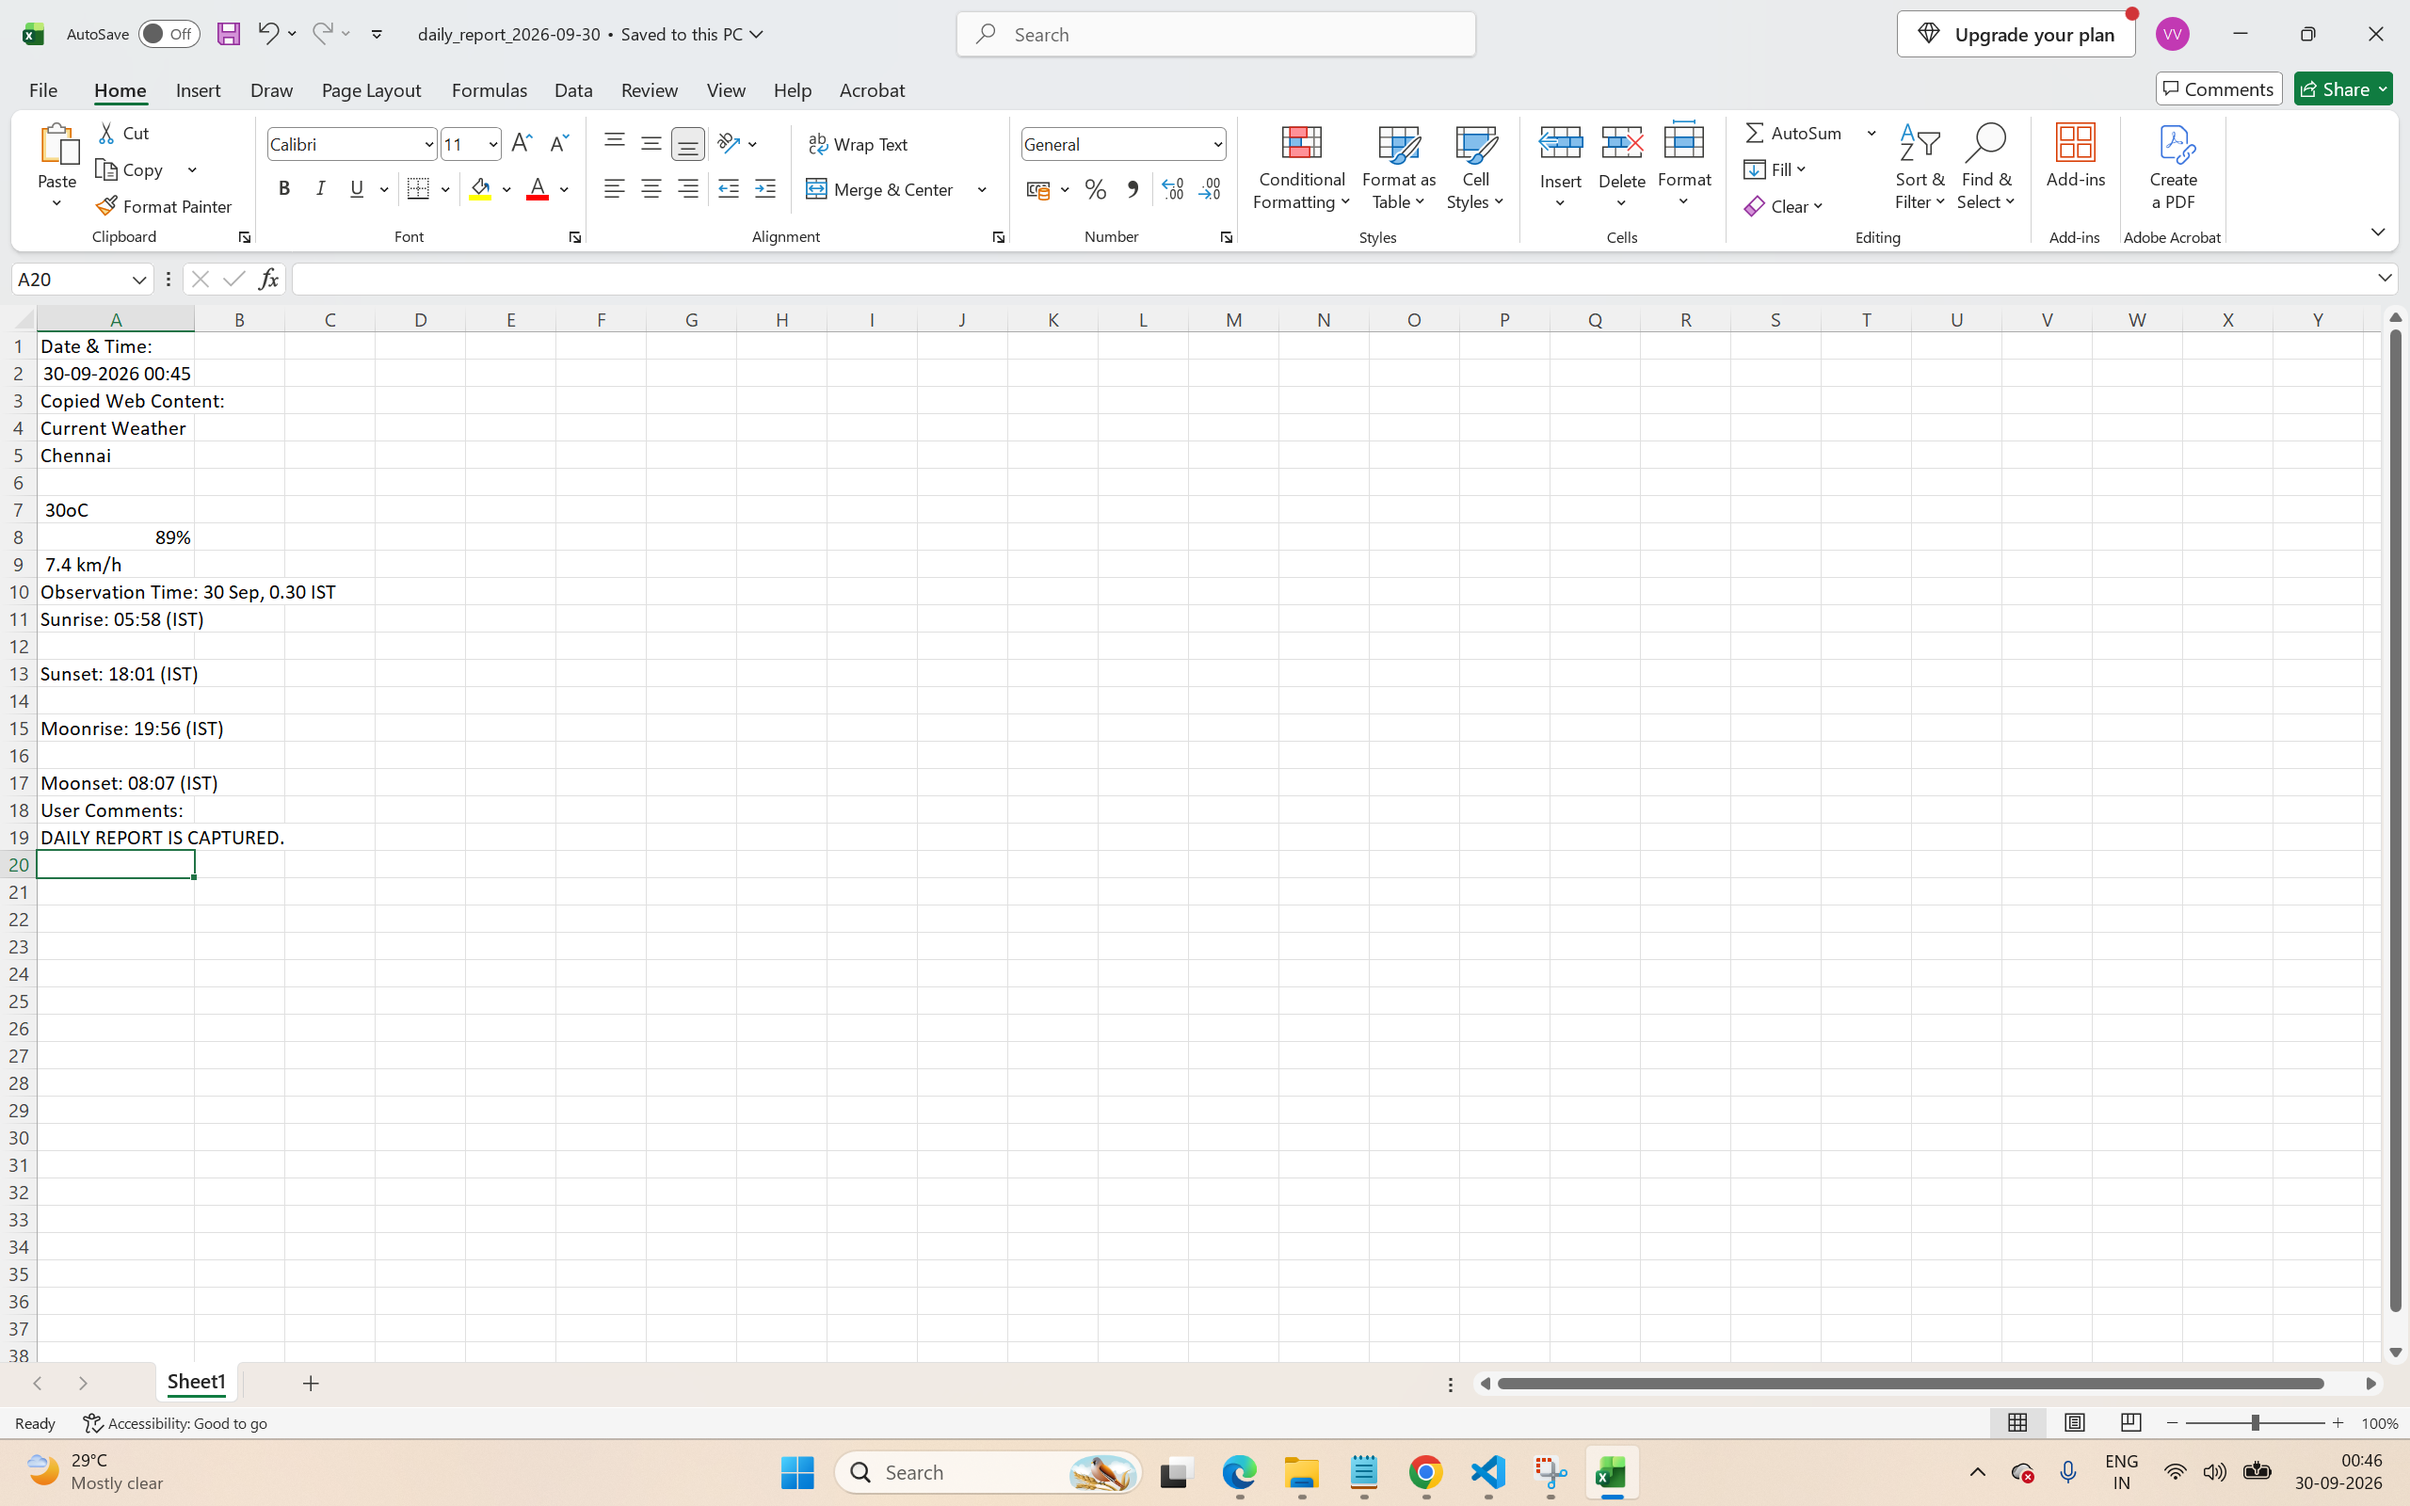
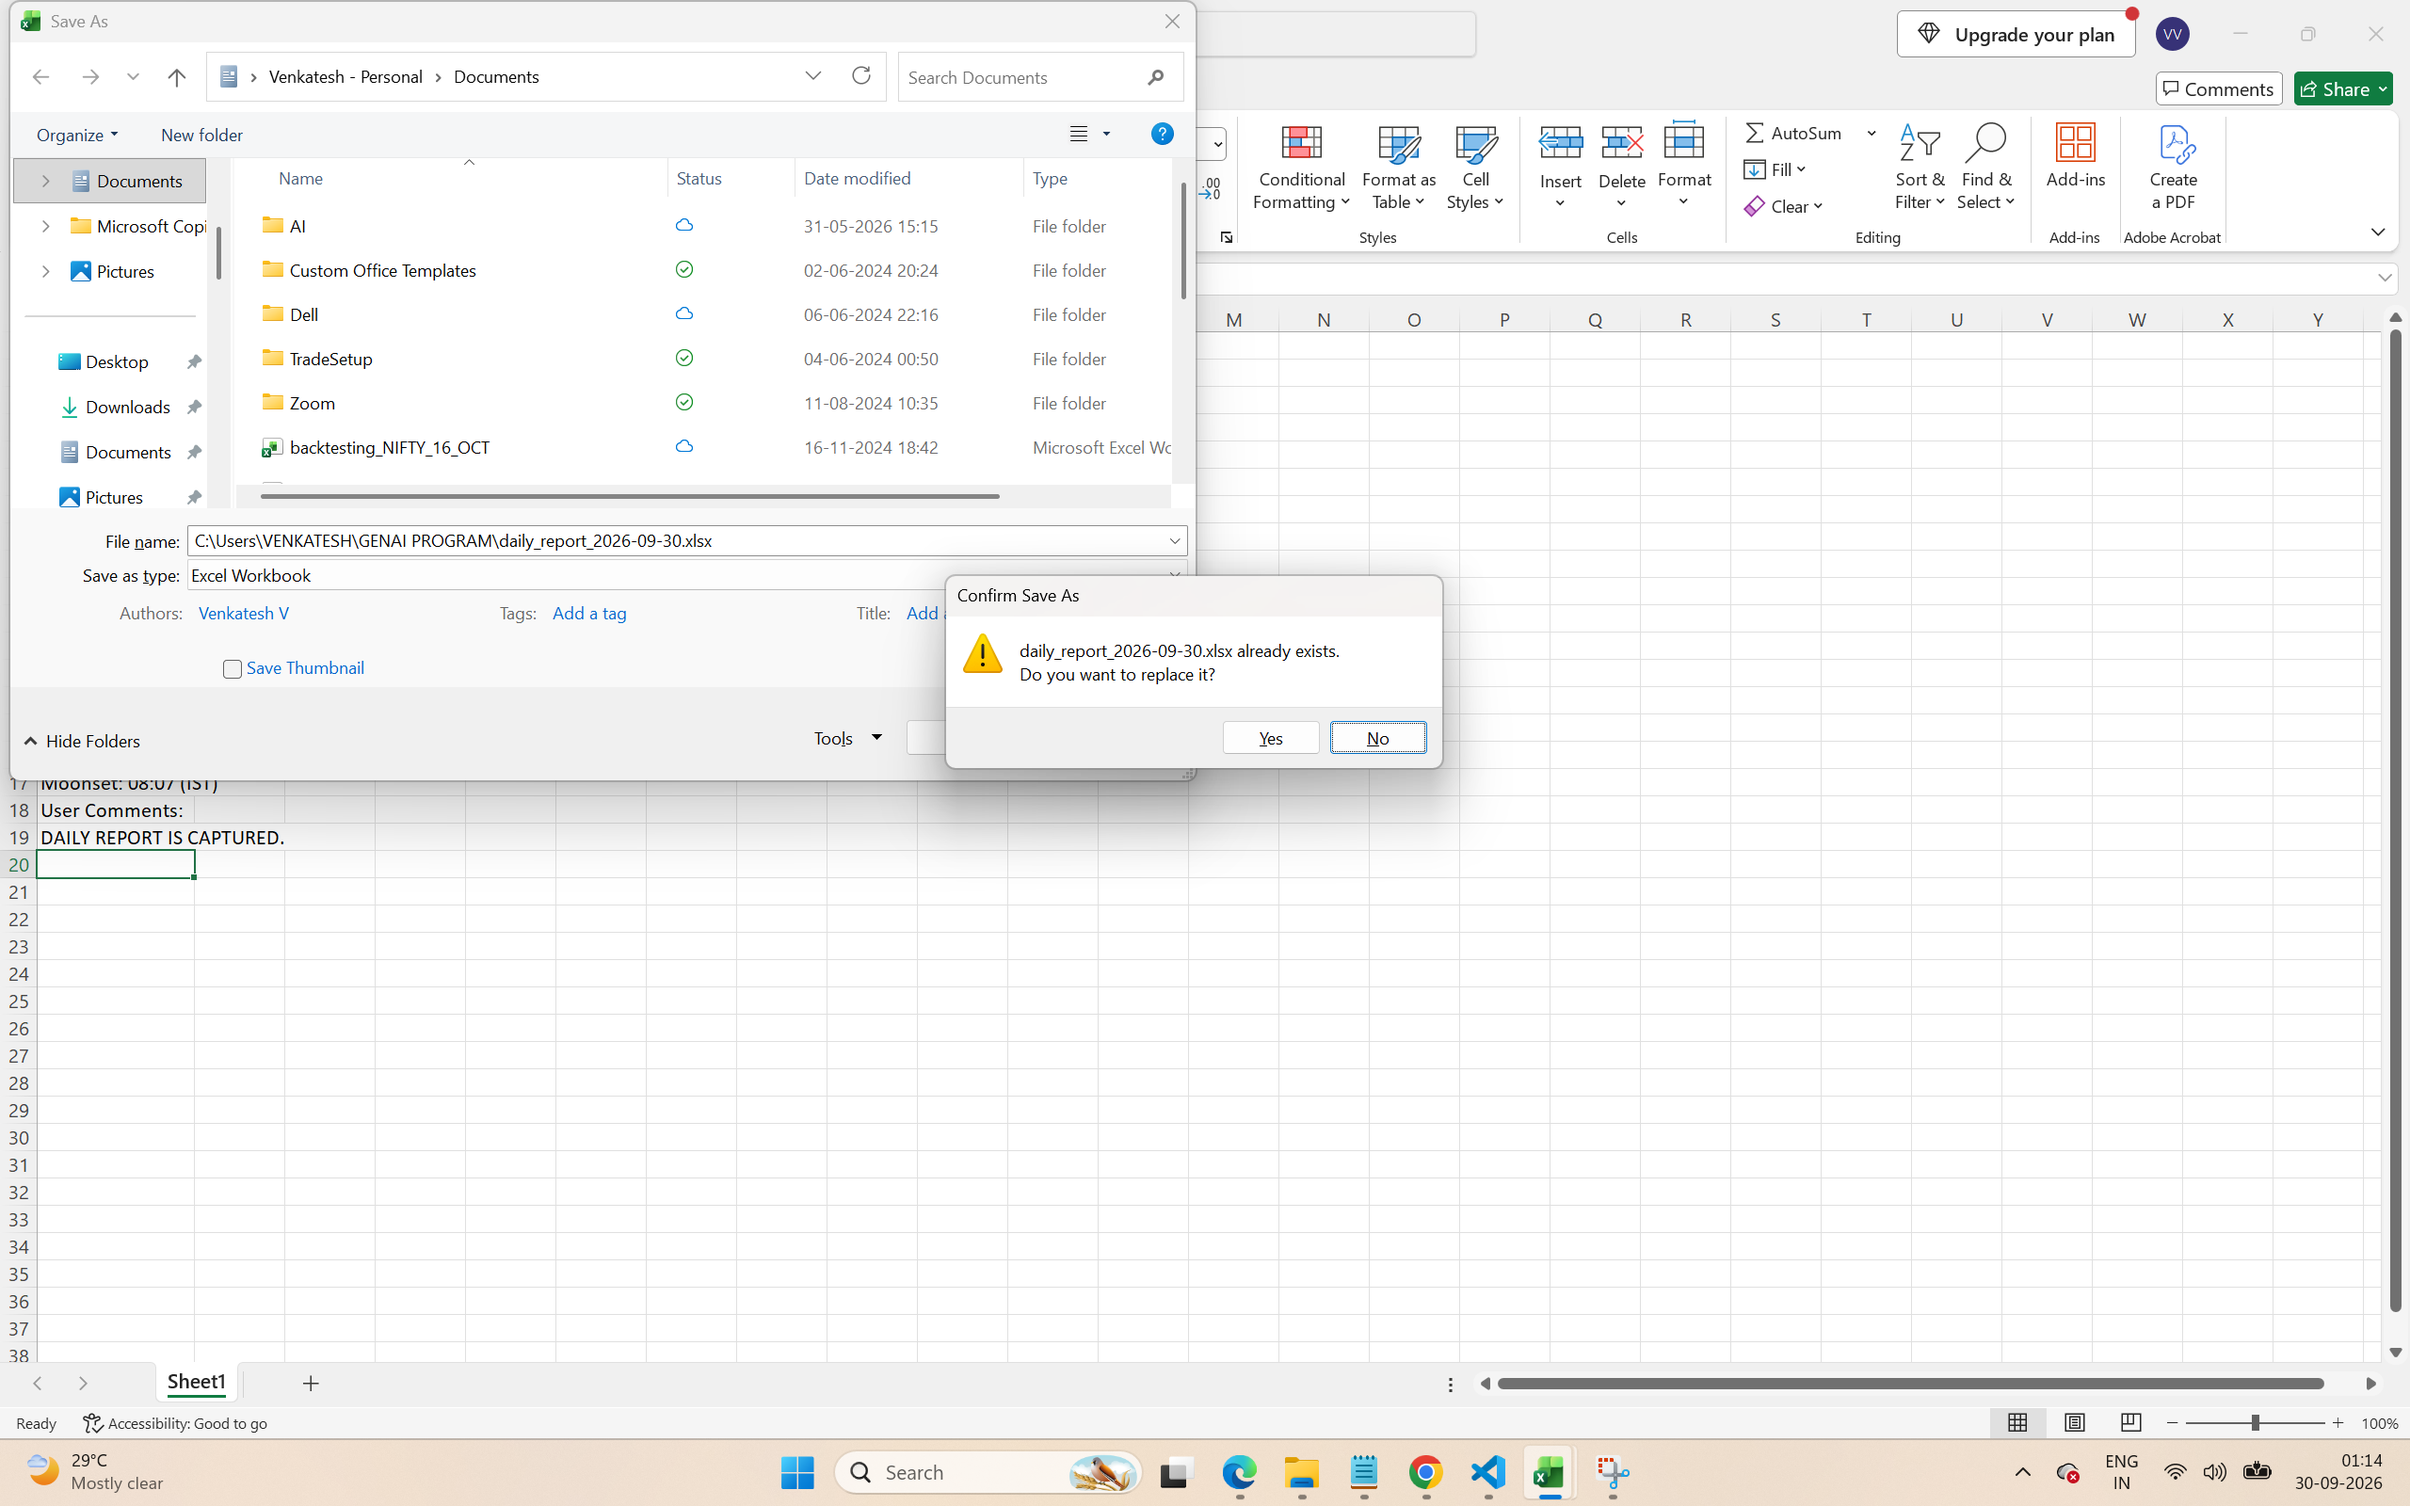
Fix Folder Structure

diff --git a/W1D4AS_STREAMLIT/grade_system.py b/W1D4AS_STREAMLIT/grade_system.py
@@ -1,0 +1,123 @@
+import streamlit as st
+
+
+st.set_page_config(
+    page_title="Student Grade App",
+    page_icon="📚"
+)
+
+
+# -----------------------------
+# Session state
+# -----------------------------
+if "students" not in st.session_state:
+    st.session_state.students = []
+
+
+# -----------------------------
+# Grade calculation
+# -----------------------------
+def calculate_grade(mark):
+    if mark >= 90:
+        return "A"
+    elif mark >= 80:
+        return "B"
+    elif mark >= 70:
+        return "C"
+    elif mark >= 60:
+        return "D"
+    else:
+        return "F"
+
+
+# -----------------------------
+# Title
+# -----------------------------
+st.title("📚 Student Grade App")
+st.write("Add students and view their grades.")
+
+
+# -----------------------------
+# Add Student Form
+# -----------------------------
+st.subheader("Add Student")
+
+with st.form("student_form"):
+
+    name = st.text_input("Student Name")
+
+    mark = st.number_input(
+        "Mark",
+        min_value=0.0,
+        max_value=100.0,
+        value=0.0,
+        step=1.0
+    )
+
+    submitted = st.form_submit_button("Add Student")
+
+    if submitted:
+
+        if not name.strip():
+            st.error("Please enter a student name.")
+
+        elif mark < 0 or mark > 100:
+            st.error("Mark must be between 0 and 100.")
+
+        else:
+
+            st.session_state.students.append({
+                "Name": name.strip(),
+                "Mark": mark,
+                "Grade": calculate_grade(mark)
+            })
+
+            st.success(f"{name} added successfully!")
+
+
+# -----------------------------
+# Student Table
+# -----------------------------
+st.subheader("Student List")
+
+if len(st.session_state.students) > 0:
+
+    st.table(st.session_state.students)
+
+    marks = [
+        student["Mark"]
+        for student in st.session_state.students
+    ]
+
+    average = sum(marks) / len(marks)
+    highest = max(marks)
+    lowest = min(marks)
+
+    # -----------------------------
+    # Metrics
+    # -----------------------------
+    st.subheader("Class Statistics")
+
+    col1, col2, col3 = st.columns(3)
+
+    with col1:
+        st.metric(
+            "Class Average",
+            f"{average:.2f}"
+        )
+
+    with col2:
+        st.metric(
+            "Highest Mark",
+            f"{highest:.0f}"
+        )
+
+    with col3:
+        st.metric(
+            "Lowest Mark",
+            f"{lowest:.0f}"
+        )
+
+else:
+
+    st.info("No students added yet.")
